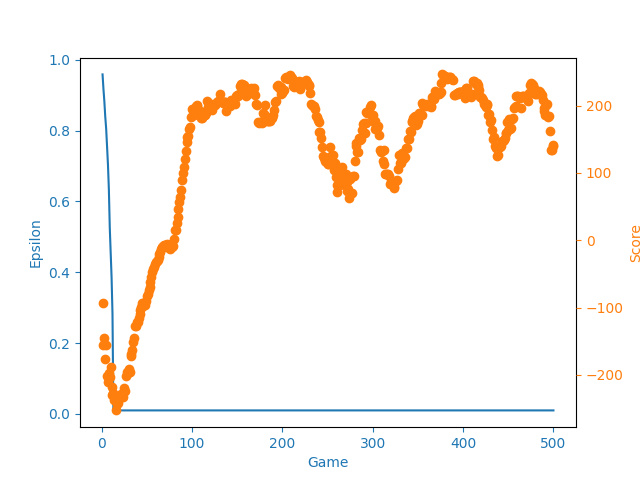
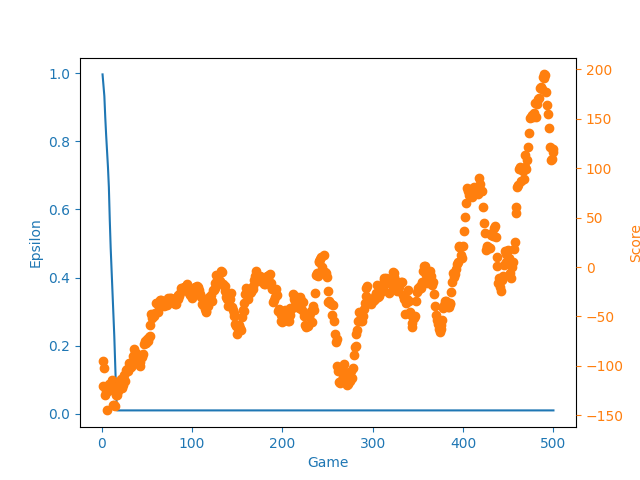
deepSARSA done

diff --git a/fall_week_2/deepSARSA.py b/fall_week_2/deepSARSA.py
@@ -4,15 +4,15 @@ import torch.nn.functional as F
 import torch.optim as optim
 import numpy as np
 
-class DQN(nn.Module):
+class DeepSARSA(nn.Module):
     def __init__(self, lr, input_dims, fc1_dims, fc2_dims, n_actions):
-        super(DQN, self).__init__()
+        super(DeepSARSA, self).__init__()
         self.input_dims = input_dims
         self.fc1_dims = fc1_dims
         self.fc2_dims = fc2_dims
         self.n_actions = n_actions
 
-        self.fc1 = nn.Linear(*self.input_dims, self.fc1_dims)      # what is the meaning of *... pointing?
+        self.fc1 = nn.Linear(*self.input_dims, self.fc1_dims)      # what is the meaning of *... pointing? : unpack list
         self.fc2 = nn.Linear(self.fc1_dims, self.fc2_dims)
         self.fc3 = nn.Linear(self.fc2_dims, self.n_actions)
 
@@ -46,25 +46,27 @@ class Agent():
         self.iter_cntr = 0
         self.replace_target = 100
 
-        self.Q_eval = DQN(lr, n_actions = n_actions, input_dims = input_dims,
+        self.Q_eval = DeepSARSA(lr, n_actions = n_actions, input_dims = input_dims,
                 fc1_dims = 256, fc2_dims = 256)
 
-        self.Q_next = DQN(lr, n_actions = n_actions, input_dims = input_dims, 
+        self.Q_next = DeepSARSA(lr, n_actions = n_actions, input_dims = input_dims, 
                 fc1_dims = 64, fc2_dims = 64)
 
         self.state_memory = np.zeros((self.mem_size, *input_dims), dtype = np.float32)
         self.new_state_memory = np.zeros((self.mem_size, *input_dims), dtype = np.float32)
         self.action_memory = np.zeros(self.mem_size, dtype = np.int32)
+        self.next_action_memory = np.zeros(self.mem_size, dtype = np.int32)         # add numpy array for next action
         self.reward_memory = np.zeros(self.mem_size, dtype = np.float32)
         self.terminal_memory = np.zeros(self.mem_size, dtype = np.bool)
 
-    def store_transition(self, state, action, reward, state_, terminal):
+    def store_transition(self, state, action, reward, state_, action_, terminal):   # take account of next action when storing
         index = self.mem_cntr % self.mem_size
         
         self.state_memory[index] = state
         self.new_state_memory[index] = state_                               # s_prime
         self.reward_memory[index] = reward
         self.action_memory[index] = action
+        self.next_action_memory[index] = action_
         self.terminal_memory[index] = terminal
 
         self.mem_cntr +=  1
@@ -85,24 +87,27 @@ class Agent():
 
         self.Q_eval.optimizer.zero_grad()                                   # initiallize grad
 
-        max_mem = min(self.mem_cntr, self.mem_size)                         # to allow learning when ...
+        max_mem = min(self.mem_cntr, self.mem_size)                         # to ensure batch to hold whats filled up
 
         batch = np.random.choice(max_mem, self.batch_size, replace = False) # not really sure what's going on from here.... to...
                                                                             # just array of random numbers?
+                                                                            # pikcing random numbers 
                                                                             
         batch_index = np.arange(self.batch_size, dtype = np.int32)
 
         state_batch = T.tensor(self.state_memory[batch]).to(self.Q_eval.device)
         new_state_batch = T.tensor(self.new_state_memory[batch]).to(self.Q_eval.device)
         action_batch = self.action_memory[batch]
+        next_action_batch = self.next_action_memory[batch]                  ### added
         reward_batch = T.tensor(self.reward_memory[batch]).to(self.Q_eval.device)
         terminal_batch = T.tensor(self.terminal_memory[batch]).to(self.Q_eval.device)
 
-        q_eval = self.Q_eval.forward(state_batch)[batch_index, action_batch]
-        q_next = self.Q_eval.forward(new_state_batch)
-        q_next[terminal_batch] = 0.0                                        # until here...
+        q_eval = self.Q_eval.forward(state_batch)[batch_index, action_batch]            # update the values of actions actually took
+        q_next = self.Q_eval.forward(new_state_batch)[batch_index, next_action_batch]   ### also use the actions actually took in next state
+        q_next[terminal_batch] = 0.0                                        # if done then done do forward passing
 
-        q_target = reward_batch + self.gamma*T.max(q_next,dim=1)[0]
+        q_target = reward_batch + self.gamma*q_next                         ### Q value of action actually took
+                                                                            # max returns value and index so [0]
 
         loss = self.Q_eval.loss(q_target, q_eval).to(self.Q_eval.device)
         loss.backward()

diff --git a/fall_week_2/dqn_agent.py b/fall_week_2/dqn_agent.py
@@ -12,7 +12,7 @@ class DQN(nn.Module):
         self.fc2_dims = fc2_dims
         self.n_actions = n_actions
 
-        self.fc1 = nn.Linear(*self.input_dims, self.fc1_dims)      # what is the meaning of *... pointing?
+        self.fc1 = nn.Linear(*self.input_dims, self.fc1_dims)      # what is the meaning of *... pointing? : unpack list
         self.fc2 = nn.Linear(self.fc1_dims, self.fc2_dims)
         self.fc3 = nn.Linear(self.fc2_dims, self.n_actions)
 
@@ -85,10 +85,11 @@ class Agent():
 
         self.Q_eval.optimizer.zero_grad()                                   # initiallize grad
 
-        max_mem = min(self.mem_cntr, self.mem_size)                         # to allow learning when ...
+        max_mem = min(self.mem_cntr, self.mem_size)                         # to ensure batch to hold whats filled up
 
         batch = np.random.choice(max_mem, self.batch_size, replace = False) # not really sure what's going on from here.... to...
                                                                             # just array of random numbers?
+                                                                            # pikcing random numbers 
                                                                             
         batch_index = np.arange(self.batch_size, dtype = np.int32)
 
@@ -98,11 +99,12 @@ class Agent():
         reward_batch = T.tensor(self.reward_memory[batch]).to(self.Q_eval.device)
         terminal_batch = T.tensor(self.terminal_memory[batch]).to(self.Q_eval.device)
 
-        q_eval = self.Q_eval.forward(state_batch)[batch_index, action_batch]
-        q_next = self.Q_eval.forward(new_state_batch)
-        q_next[terminal_batch] = 0.0                                        # until here...
+        q_eval = self.Q_eval.forward(state_batch)[batch_index, action_batch]        # update the values of actions actually took
+        q_next = self.Q_eval.forward(new_state_batch)                               #
+        q_next[terminal_batch] = 0.0                                        # if done then done do forward passing
 
-        q_target = reward_batch + self.gamma*T.max(q_next,dim=1)[0]
+        q_target = reward_batch + self.gamma*T.max(q_next,dim=1)[0]         # dim = 1: action dimension and
+                                                                            # max returns value and index so [0]
 
         loss = self.Q_eval.loss(q_target, q_eval).to(self.Q_eval.device)
         loss.backward()

diff --git a/fall_week_2/lunar_lander_deepSARSA.py b/fall_week_2/lunar_lander_deepSARSA.py
@@ -1,5 +1,5 @@
 import gym
-from dqn_agent import Agent
+from deepSARSA import Agent
 from utils import plotLearning
 import numpy as np
 
@@ -15,18 +15,25 @@ if __name__ == '__main__':
         score = 0
         done = False
         observation = env.reset()
-
+        action = agent.choose_action(observation) ###
         while not done:
-            action = agent.choose_action(observation)
+
             observation_, reward, done, info = env.step(action)
             score += reward
-            agent.store_transition(observation, action, reward, observation_, done)
+
+            action_ = agent.choose_action(observation) ###
+            
+            agent.store_transition(observation, action, reward, observation_, action_, done) ###
             agent.learn()
             observation = observation_
+            action = action_ ###
+            #env.render()
 
         scores.append(score)
         eps_history.append(agent.epsilon)
         avg_score = np.mean(scores[-100:])
+        
+        
 
         print('episode ', i, 'score %.2f' % score,
                 'average score %.2f' % avg_score,
